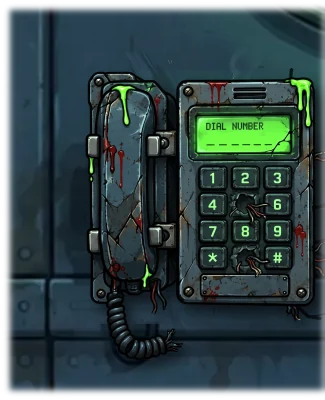
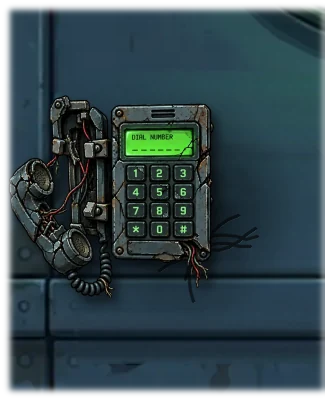
Smaller wall phone (workingtp/brokentp) moved left; 2 s alarm clip on the beacons; quieter drips synced to the floor; slime door sound on touch; valve smoke fills the room then clears

diff --git a/src/scenes/GateProps.tsx b/src/scenes/GateProps.tsx
@@ -125,7 +125,7 @@ const FLOOR_Y = 1522;
 type Puff = { id: number; dx: number; s: number; d: number };
 let puffId = 0;
 
-export function Faucet({ tabIndex, onTag }: { tabIndex: number; onTag?: (on: boolean) => void }) {
+export function Faucet({ tabIndex, onTag, onOpen }: { tabIndex: number; onTag?: (on: boolean) => void; onOpen?: () => void }) {
   const [open, setOpen] = useState(false);
   const [spin, setSpin] = useState(0);
   const [pool, setPool] = useState(0);           // 0..1 puddle size
@@ -133,6 +133,7 @@ export function Faucet({ tabIndex, onTag }: { tabIndex: number; onTag?: (on: boo
   const auto = useRef(0);
   const toggle = () => {
     setSpin((s) => s + 1); playValveTurn();
+    if (!open) onOpen?.();
     setOpen((o) => {
       window.clearTimeout(auto.current);
       if (!o) auto.current = window.setTimeout(() => { setOpen(false); setSpin((s) => s + 1); playValveTurn(); }, 6500);
@@ -184,26 +185,35 @@ const CLOSED_TIPS: Tip[] = [[2959, 888], [2850, 985], [2927, 1137], [2884, 1298]
 const OPEN_TIPS: Tip[] = [[2959, 888], [2840, 984], [2895, 1136], [2865, 1298], [3214, 1070], [3280, 966], [3223, 1247], [2730, 853]];
 const FLOOR = 1592;
 const rnd = (i: number, k: number) => { const x = Math.sin(i * 12.9898 + k * 78.233) * 43758.5453; return x - Math.floor(x); };
+// progress (0..1) of an element's first running CSS animation: sounds follow the real animation, whatever
+// paused or restarted it (scene hidden, tab in the background, etc.)
+function loopPhase(el: Element | null | undefined): number | null {
+  const a = el?.getAnimations?.()[0];
+  const p = a?.effect?.getComputedTiming().progress;
+  return typeof p === "number" ? p : null;
+}
+
 function DripSet({ tips, className, seed, sound }: { tips: Tip[]; className?: string; seed: number; sound: boolean }) {
-  // a plink each time a drop hits the floor (dripFall reaches the floor at 91% of its loop)
-  const born = useRef(performance.now());
+  // a plink exactly when a drop touches the floor (dripFall reaches the floor at 91% of its loop)
+  const box = useRef<HTMLDivElement>(null);
   useEffect(() => {
     if (!sound) return;
     const timers: number[] = [];
     tips.forEach(([x], i) => {
-      const dur = 7 + rnd(i, seed) * 7, delay = -rnd(i, seed + 1) * dur;
+      const dur = 7 + rnd(i, seed) * 7;
       const next = () => {
-        const now = (performance.now() - born.current) / 1000;
-        const phase = ((((now - delay) % dur) + dur) % dur) / dur;
-        const dt = (((0.91 - phase) % 1) + 1) % 1 * dur || dur;
-        timers.push(window.setTimeout(() => { playDrip((x / 3840) * 2 - 1, 0.6 + rnd(i, seed + 3) * 0.6); next(); }, dt * 1000));
+        const phase = loopPhase(box.current?.children[i]?.querySelector("i"));
+        if (phase === null) { timers.push(window.setTimeout(next, 500)); return; }
+        let dt = ((((0.912 - phase) % 1) + 1) % 1) * dur;
+        if (dt < 0.05) dt += dur;
+        timers.push(window.setTimeout(() => { playDrip((x / 3840) * 2 - 1, 0.6 + rnd(i, seed + 3) * 0.6); timers.push(window.setTimeout(next, 120)); }, dt * 1000));
       };
       next();
     });
     return () => timers.forEach((id) => window.clearTimeout(id));
   }, [sound, tips, seed]);
   return (
-    <div className={"gate-drips " + (className ?? "")} aria-hidden="true">
+    <div ref={box} className={"gate-drips " + (className ?? "")} aria-hidden="true">
       {tips.map(([x, y], i) => {
         const dur = 7 + rnd(i, seed) * 7, delay = -rnd(i, seed + 1) * dur;   // one drop every 7-14 s per tip
         const floor = FLOOR + (rnd(i, seed + 2) - 0.5) * 24;
@@ -325,10 +335,11 @@ export function VesselBubbles({ live, layer }: { live: boolean; layer: "back" | 
     VBUBS.forEach((b) => {                                            // the pops for both layers live on one instance
       if (b.i % 3 !== 0 && Math.max(b.w, b.h) < 20) return;           // only about a third of them make a sound
       const next = () => {
-        const now = (performance.now() - born.current) / 1000;
-        const phase = ((((now - b.delay) % b.dur) + b.dur) % b.dur) / b.dur;
-        const dt = ((((0.9 - phase) % 1) + 1) % 1) * b.dur || b.dur;
-        timers.push(window.setTimeout(() => { playBubblePop(Math.min(1, Math.max(b.w, b.h) / 26), -0.55 + ((b.cx - VB.x) / VB.w) * 0.2); next(); }, dt * 1000));
+        const phase = loopPhase(document.querySelector(`.vessel-bubbles .vb[data-i="${b.i}"]`));
+        if (phase === null) { timers.push(window.setTimeout(next, 500)); return; }
+        let dt = ((((0.9 - phase) % 1) + 1) % 1) * b.dur;
+        if (dt < 0.05) dt += b.dur;
+        timers.push(window.setTimeout(() => { playBubblePop(Math.min(1, Math.max(b.w, b.h) / 26), -0.55 + ((b.cx - VB.x) / VB.w) * 0.2); timers.push(window.setTimeout(next, 120)); }, dt * 1000));
       };
       next();
     });
@@ -337,7 +348,7 @@ export function VesselBubbles({ live, layer }: { live: boolean; layer: "back" | 
   return (
     <div className={"gate-layer vessel-bubbles " + layer} style={VESSEL_CLEAN_BOX} aria-hidden="true">
       {list.map((b) => (
-        <i key={b.i} className="vb" style={{
+        <i key={b.i} data-i={b.i} className="vb" style={{
           left: `${((b.cx - b.w / 2 - VB.x) / VB.w) * 100}%`, top: `${((VB.floor - b.h - VB.y) / VB.h) * 100}%`,
           width: `${(b.w / VB.w) * 100}%`, height: `${(b.h / VB.h) * 100}%`,
           backgroundSize: `${(VB_ATLAS[0]! / b.w) * 100}% ${(VB_ATLAS[1]! / b.h) * 100}%`,

diff --git a/src/scenes/Gate.tsx b/src/scenes/Gate.tsx
@@ -4,7 +4,7 @@ import { sceneImage, type SceneImage } from "@/config/cdn";
 import { CLONE, LOCK, SCENE_LAYERS } from "./config";
 import { ClassifiedFile } from "@/overlays/ClassifiedFile";
 import { preloadFile } from "@/lib/fileArt";
-import { playDoorBurst, playDoorOpen, playKitClose, playKitOpen, playVesselBlip, startBeepAlarm, startGaugeDings, startPipeFlow, startSubmergedBubbleLoop } from "@/lib/fileSounds";
+import { playDoorBurst, playDoorOpen, playKitClose, playKitOpen, playVesselBlip, SFX, startClipLoop, startGaugeDings, startPipeFlow, startSubmergedBubbleLoop } from "@/lib/fileSounds";
 import { LockKeypad } from "@/overlays/LockKeypad";
 import { Faucet, FirstAidKit, GateBackdrop, HomePad, SignLogo, SlimeDrips, VESSEL_CLEAN_BOX, VesselBubbles } from "./GateProps";
 
@@ -53,6 +53,7 @@ export function Gate({ on, warm = false, zoom = "", onDoor, onLab, onHome }: Pro
   const [lockHover, setLockHover] = useState(false);
   const [faucetHover, setFaucetHover] = useState(false);
   const [homeHover, setHomeHover] = useState(false);
+  const [fog, setFog] = useState(0);                   // opening the valve fills the room with smoke, then it clears
   const [padOpen, setPadOpen] = useState(false);       // lockdown door keypad close-up
   const [padHover, setPadHover] = useState(false);
   const [kitOpen, setKitOpen] = useState(false);       // first-aid box on the wall (empty)
@@ -102,7 +103,7 @@ export function Gate({ on, warm = false, zoom = "", onDoor, onLab, onHome }: Pro
   }, [on, fileOpen]);
   useEffect(() => {                                   // quiet lockdown alert while the red alarm is up
     if (!on || !(lockHover || burst) || fileOpen) return;
-    return startBeepAlarm();                           // red beacons on: beep-beep alarm on a 2 s loop
+    return startClipLoop(SFX.lockAlarm, 0.75);         // red beacons on: the 2 s alarm (no voice), looped
   }, [on, lockHover || burst, fileOpen]);
   const openFile = async () => {
     if (fileBusy || fileOpen) return;
@@ -144,7 +145,7 @@ export function Gate({ on, warm = false, zoom = "", onDoor, onLab, onHome }: Pro
           tabIndex={on ? 0 : -1} aria-label={kitOpen ? "Close the first-aid box" : "Open the first-aid box"}
           onClick={() => { if (kitOpen) playKitClose(); else playKitOpen(); setKitOpen(!kitOpen); }}
           onPointerEnter={() => setKitHover(true)} onPointerLeave={() => setKitHover(false)} />
-        <Faucet tabIndex={on ? 0 : -1} onTag={setFaucetHover} />
+        <Faucet tabIndex={on ? 0 : -1} onTag={setFaucetHover} onOpen={() => setFog((n) => n + 1)} />
         <SceneLayer name="bgsilhouette.webp" box={SCENE_LAYERS.full} className="gate-silhouette" />
         <button type="button" className="clone-hit" style={position(SCENE_LAYERS.cloneHit)}
           aria-label="Open the classified file" tabIndex={on ? 0 : -1}
@@ -158,9 +159,16 @@ export function Gate({ on, warm = false, zoom = "", onDoor, onLab, onHome }: Pro
         <Button type="button" variant="ghost" className="slime-hit" style={position(SCENE_LAYERS.doorHit)}
           aria-label="Open Department of FOMO" tabIndex={on ? 0 : -1}
           onPointerEnter={(event) => { if (event.pointerType === "mouse") { setOpen(true); doorSound(); } }}
+          onPointerDown={(event) => { if (event.pointerType !== "mouse") { setOpen(true); doorSound(); } }}
           onPointerLeave={() => setOpen(false)} onFocus={() => setOpen(true)} onBlur={() => setOpen(false)}
           onClick={() => { onDoor(); }} />
       </div>
+      {fog > 0 && (
+        <div key={fog} className="gate-fog" aria-hidden="true">
+          <i className="haze" />
+          {[0, 1, 2, 3, 4, 5, 6, 7, 8].map((k) => <i key={k} className={"cloud c" + k} />)}
+        </div>
+      )}
       <div className="gate-overlay" aria-hidden="true" />
       {/* UI above the pulsing overlay, same frame as the stage, so the hint stays readable */}
       <div id="gate-ui" aria-hidden="true">

diff --git a/src/lib/fileSounds.ts b/src/lib/fileSounds.ts
@@ -765,6 +765,7 @@ export const SFX = {
   phoneLeave: "/sfx/phone-leave.mp3", phoneFinished: "/sfx/phone-finished.mp3",
   laughSovereign: "/sfx/laugh-sovereign.mp3", laughHellspawn: "/sfx/laugh-hellspawn.mp3",
   telephoneCall: "/sfx/telephone-call.mp3",
+  lockAlarm: "/sfx/alert-2s.mp3",
 } as const;
 export function preloadVoices() { Object.values(SFX).forEach((u) => { void loadClip(u); }); }
 /** Plays a clip; resolves `done` when it ends (or right away if it could not play). */
@@ -830,7 +831,7 @@ export function startPipeFlow(): () => void {
 /** One slime drop landing: a wet plink, panned to where it fell (-1 left .. 1 right). */
 export function playDrip(pan = 0, size = 1) {
   try {
-    const m = master(0.11 * size); if (!m) return; const { c, out, t } = m;
+    const m = master(0.04 * size); if (!m) return; const { c, out, t } = m;
     const p = c.createStereoPanner(); p.pan.value = Math.max(-1, Math.min(1, pan)); out.disconnect(); out.connect(p); p.connect(c.destination);
     const f = 900 + Math.random() * 700;
     const o = c.createOscillator(); o.type = "sine"; o.frequency.setValueAtTime(f, t); o.frequency.exponentialRampToValueAtTime(f * 2.2, t + 0.045);
@@ -1040,4 +1041,18 @@ export function playKitOpen() {
 }
 export function playKitClose() {
   try { const m = master(0.35); if (!m) return; const { c, out, t } = m; thump(c, out, t, 200, 120, 0.1, 0.6); burst(c, out, t + 0.04, 0.03, (x) => 1 - x, [{ type: "bandpass", f: 3000, q: 2 }], 0.6); } catch { /* optional */ }
+}
+
+/** Loop a recorded clip seamlessly (e.g. the 2 s lockdown alarm) until stop() is called. */
+export function startClipLoop(url: string, volume = 0.7): () => void {
+  let src: AudioBufferSourceNode | null = null, g: GainNode | null = null, stopped = false;
+  void loadClip(url).then((buf) => {
+    const c = audio(); if (!buf || !c || stopped) return;
+    src = c.createBufferSource(); src.buffer = buf; src.loop = true;
+    g = c.createGain(); g.gain.value = volume; src.connect(g); g.connect(c.destination); src.start();
+  });
+  return () => {
+    stopped = true;
+    try { const c = audio(); if (g && c) g.gain.setTargetAtTime(0.0001, c.currentTime, 0.05); window.setTimeout(() => { try { src?.stop(); } catch { /* done */ } }, 300); } catch { /* gone */ }
+  };
 }

diff --git a/src/styles.css b/src/styles.css
@@ -949,3 +949,19 @@ html[data-input="key"] .office :focus-visible{outline:3px solid var(--butter);ou
 .lockpad-close{position:absolute;right:-2cqw;top:-2cqw;width:9cqw;aspect-ratio:1;border-radius:50%;border:2px solid rgba(255,255,255,.5);background:rgba(0,0,0,.75);color:#fff;font:700 6cqw/1 var(--mono);cursor:pointer}
 /* the door-side keypad + first-aid box are clickable */
 .gate-keypad-hit,.kit-hit{position:absolute;z-index:4;padding:0;margin:0;border:0;background:transparent;cursor:pointer;-webkit-tap-highlight-color:transparent}
+
+/* valve: the steam spreads until the whole room is in smoke, then it slowly clears */
+.gate-fog{position:absolute;inset:0;z-index:5;pointer-events:none;overflow:hidden;container-type:inline-size}
+.gate-fog .haze{position:absolute;inset:0;background:radial-gradient(ellipse 80% 70% at 82% 85%,rgba(150,175,170,.75),rgba(120,145,140,.55) 45%,rgba(100,120,118,.4));opacity:0;animation:fogHaze 15s ease-in-out forwards}
+.gate-fog .cloud{position:absolute;left:84%;top:80%;width:30cqw;aspect-ratio:1.6;margin:-9cqw 0 0 -15cqw;border-radius:50%;background:radial-gradient(ellipse at center,rgba(205,220,215,.7),rgba(170,190,185,.35) 45%,rgba(140,160,155,0) 70%);filter:blur(1.2cqw);opacity:0;animation:fogCloud 15s ease-in-out forwards}
+.gate-fog .c1{--tx:-30cqw;--ty:-14cqw;animation-delay:.3s}
+.gate-fog .c2{--tx:-55cqw;--ty:-4cqw;animation-delay:.8s}
+.gate-fog .c3{--tx:-70cqw;--ty:-26cqw;animation-delay:1.3s}
+.gate-fog .c4{--tx:-12cqw;--ty:-32cqw;animation-delay:1.7s}
+.gate-fog .c5{--tx:-42cqw;--ty:-34cqw;animation-delay:2.2s}
+.gate-fog .c6{--tx:-80cqw;--ty:-8cqw;animation-delay:2.6s}
+.gate-fog .c7{--tx:-24cqw;--ty:2cqw;animation-delay:3s}
+.gate-fog .c8{--tx:-62cqw;--ty:-40cqw;animation-delay:3.4s}
+@keyframes fogHaze{0%{opacity:0}40%{opacity:.75}62%{opacity:.75}100%{opacity:0}}
+@keyframes fogCloud{0%{opacity:0;transform:translate(0,0) scale(.3)}15%{opacity:.9}55%{opacity:.85;transform:translate(var(--tx,-20cqw),var(--ty,-10cqw)) scale(2.2)}100%{opacity:0;transform:translate(calc(var(--tx,-20cqw) * 1.2),calc(var(--ty,-10cqw) - 6cqw)) scale(2.8)}}
+@media (prefers-reduced-motion: reduce){.gate-fog .cloud{animation-duration:6s}.gate-fog .haze{animation-duration:6s}}

diff --git a/src/scenes/LabPhone.tsx b/src/scenes/LabPhone.tsx
@@ -23,8 +23,8 @@ const FIRST_RING_MS = 3500;
 // phone-intact.webp / phone-broken.webp: our own wall with the old phone + keypad taken off and the new
 // phone (phone.webp / brokenphone.webp) mounted; the broken one also carries soot and cracks on the wall.
 const PHONE_ART = box(1180, 700, 325, 400);
-const SPARKS = [{ x: 1427, y: 909, d: 2.3 }, { x: 1452, y: 884, d: 3.1 }, { x: 1424, y: 956, d: 4.7 }];
-const SMOKE = [{ x: 1427, y: 905 }, { x: 1424, y: 952 }];
+const SPARKS = [{ x: 1376, y: 949, d: 2.3 }, { x: 1282, y: 868, d: 3.1 }, { x: 1291, y: 937, d: 4.7 }];
+const SMOKE = [{ x: 1382, y: 962 }, { x: 1284, y: 866 }];
 
 export function LabPhone({ on, paused, tabIndex, onTag, onSay }: {
   on: boolean; paused: boolean; tabIndex: number; onTag: (k: string | null) => void;
@@ -102,7 +102,7 @@ export function LabPhone({ on, paused, tabIndex, onTag, onSay }: {
           {SPARKS.map((s, i) => <span key={i} className="phone-spark" style={{ left: `${s.x / 38.4}%`, top: `${s.y / 18}%`, animationDuration: `${s.d}s` }} aria-hidden="true" />)}
         </>
       )}
-      {flash && <span className="phone-flash" style={{ left: `${1427 / 38.4}%`, top: `${925 / 18}%` }} aria-hidden="true" />}
+      {flash && <span className="phone-flash" style={{ left: `${1330 / 38.4}%`, top: `${905 / 18}%` }} aria-hidden="true" />}
       {!broken && (
         <>
           <svg className={"lab-rings" + (ringing ? " on" : "")} style={at(p.rings)} viewBox="0 0 60 60" aria-hidden="true">

diff --git a/src/scenes/config.ts b/src/scenes/config.ts
@@ -168,7 +168,7 @@ export const LAB_FX = {
   // the dead machine by the gas tanks: its slanted screen (box) and the screen shape inside it (box units 152x76)
   oos: { box: lb(3460, 1072, 152, 76), poly: "3,2 140,2 150,74 16,74", hit: lb(3388, 985, 252, 515) },
   // wall phone (left keypad with the cord) + the panel next to it: rings, picks up, threatens
-  phone: { hit: lb(1262, 768, 236, 292), rings: lb(1478, 728, 70, 70), led: { x: 1332 / 38.4, y: 942 / 18 } },   // new wall phone (phone.webp)
+  phone: { hit: lb(1200, 790, 200, 276), rings: lb(1378, 752, 60, 60), led: { x: 1332 / 38.4, y: 942 / 18 } },   // wall phone (workingtp.webp / brokentp.webp)
   // wall keypad right of the big terminal = EXIT: whole pad is the button, screen shows EXIT
   exitPad: { hit: lb(3258, 800, 106, 154), screen: lb(3288, 824, 60, 35), key: lb(3334, 872, 17, 44) },
   // the three green desk monitors (screen glass): text log, live specimen build, single trait
